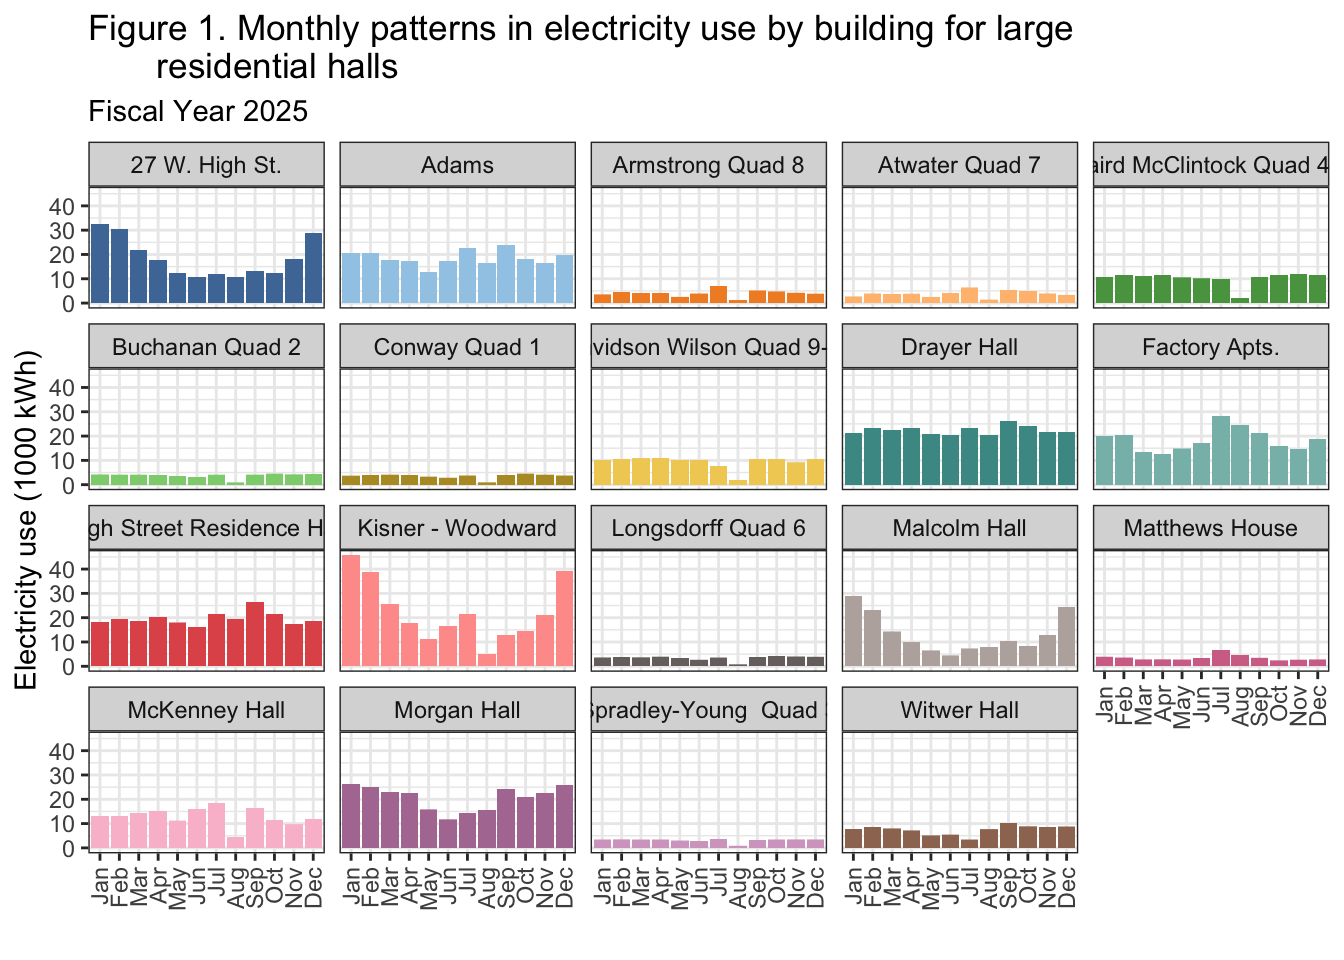
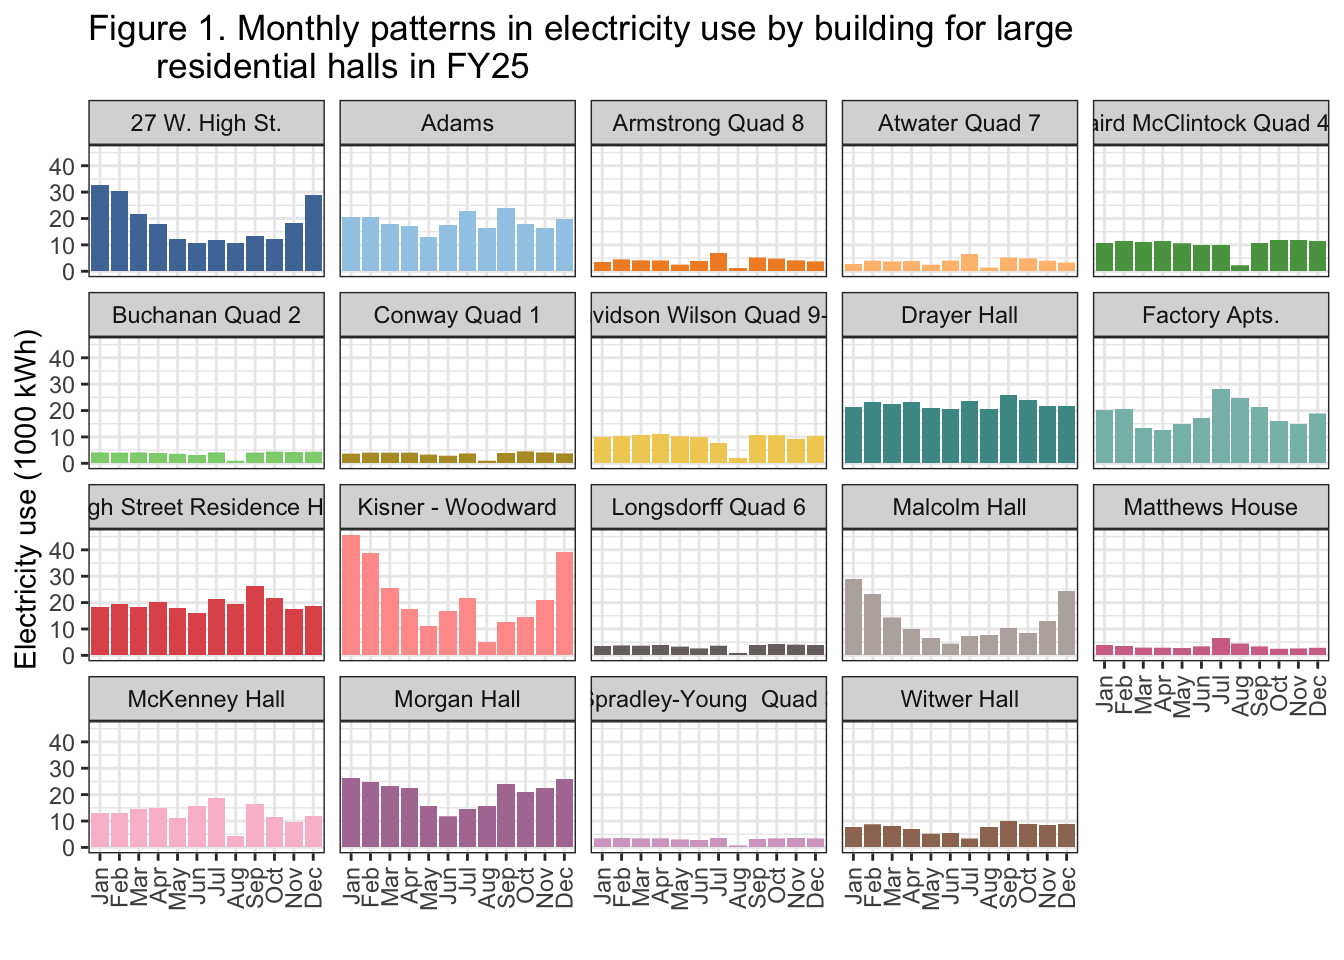
minor updates

diff --git a/docs/Report_I_Residential-L.html b/docs/Report_I_Residential-L.html
@@ -493,10 +493,10 @@ changes </a>
 <div id="strongRMarkdownfilestronguncommittedchanges"
 class="panel-collapse collapse">
 <div class="panel-body">
-<p>The R Markdown is untracked by Git. To know which version of the R
-Markdown file created these results, you’ll want to first commit it to
-the Git repo. If you’re still working on the analysis, you can ignore
-this warning. When you’re finished, you can run
+<p>The R Markdown file has unstaged changes. To know which version of
+the R Markdown file created these results, you’ll want to first commit
+it to the Git repo. If you’re still working on the analysis, you can
+ignore this warning. When you’re finished, you can run
 <code>wflow_publish</code> to commit the R Markdown file and build the
 HTML.</p>
 </div>
@@ -589,15 +589,15 @@ project makes it easier to run your code on other machines.</p>
 <div class="panel panel-default">
 <div class="panel-heading">
 <p class="panel-title">
-<a data-toggle="collapse" data-parent="#workflowr-checks" href="#strongRepositoryversionstrongahrefhttpsgithubcommaggiedouglasdickinsonpowertreed34161b8d717b41f39a7b35fa9bbbfff7334d6d6targetblankd34161ba">
+<a data-toggle="collapse" data-parent="#workflowr-checks" href="#strongRepositoryversionstrongahrefhttpsgithubcommaggiedouglasdickinsonpowertree755150174efba482b31328f804eb2165e31d5561targetblank7551501a">
 <span class="glyphicon glyphicon-ok text-success"
 aria-hidden="true"></span> <strong>Repository version:</strong>
-<a href="https://github.com/maggiedouglas/dickinson_power/tree/d34161b8d717b41f39a7b35fa9bbbfff7334d6d6" target="_blank">d34161b</a>
+<a href="https://github.com/maggiedouglas/dickinson_power/tree/755150174efba482b31328f804eb2165e31d5561" target="_blank">7551501</a>
 </a>
 </p>
 </div>
 <div
[2 lines of base64/hex data omitted]
 class="panel-collapse collapse">
 <div class="panel-body">
 <p>
@@ -607,7 +607,7 @@ reproducibility.
 </p>
 <p>
 The results in this page were generated with repository version
-<a href="https://github.com/maggiedouglas/dickinson_power/tree/d34161b8d717b41f39a7b35fa9bbbfff7334d6d6" target="_blank">d34161b</a>.
+<a href="https://github.com/maggiedouglas/dickinson_power/tree/755150174efba482b31328f804eb2165e31d5561" target="_blank">7551501</a>.
 See the <em>Past versions</em> tab to see a history of the changes made
 to the R Markdown and HTML files.
 </p>
@@ -678,11 +678,8 @@ Ignored files:
     Ignored:    output/kwh_main_annual.csv
     Ignored:    output/kwh_main_daily.csv
 
-Untracked files:
-    Untracked:  analysis/Report_I_Residential-L.Rmd
-
 Unstaged changes:
-    Modified:   analysis/Report_I_Academic.Rmd
+    Modified:   analysis/Report_I_Residential-L.Rmd
 
 </code></pre>
 <p>
@@ -728,6 +725,40 @@ Message
 </tr>
 </thead>
 <tbody>
+<tr>
+<td>
+Rmd
+</td>
+<td>
+<a href="https://github.com/maggiedouglas/dickinson_power/blob/755150174efba482b31328f804eb2165e31d5561/analysis/Report_I_Residential-L.Rmd" target="_blank">7551501</a>
+</td>
+<td>
+maggiedouglas
+</td>
+<td>
+2026-04-25
+</td>
+<td>
+Update large res hall Part 1
+</td>
+</tr>
+<tr>
+<td>
+html
+</td>
+<td>
+<a href="https://rawcdn.githack.com/maggiedouglas/dickinson_power/755150174efba482b31328f804eb2165e31d5561/docs/Report_I_Residential-L.html" target="_blank">7551501</a>
+</td>
+<td>
+maggiedouglas
+</td>
+<td>
+2026-04-25
+</td>
+<td>
+Update large res hall Part 1
+</td>
+</tr>
 <tr>
 <td>
 Rmd
@@ -977,8 +1008,7 @@ August due to missing data from this time period.</p>
   labs(x = &quot;&quot;,
        y = &quot;Electricity use (1000 kWh)&quot;,
        title = &quot;Figure 1. Monthly patterns in electricity use by building for large 
-       residential halls&quot;,
-       subtitle = &quot;Fiscal Year 2025&quot;)</code></pre>
+       residential halls in FY25&quot;)</code></pre>
 <p><img src="figure/Report_I_Residential-L.Rmd/fig1-1.png" alt="" width="672" style="display: block; margin: auto;" /></p>
 <p>
 <button type="button" class="btn btn-default btn-xs btn-workflowr btn-workflowr-fig" data-toggle="collapse" data-target="#fig-fig1-1">
@@ -1002,6 +1032,17 @@ Date
 </tr>
 </thead>
 <tbody>
+<tr>
+<td>
+<a href="https://github.com/maggiedouglas/dickinson_power/blob/755150174efba482b31328f804eb2165e31d5561/docs/figure/Report_I_Residential-L.Rmd/fig1-1.png" target="_blank">7551501</a>
+</td>
+<td>
+maggiedouglas
+</td>
+<td>
+2026-04-25
+</td>
+</tr>
 <tr>
 <td>
 <a href="https://github.com/maggiedouglas/dickinson_power/blob/00381987e0dc4547c8c7e8bb8433c091f88a81cc/docs/figure/Report_I_Residential-L.Rmd/fig1-1.png" target="_blank">0038198</a>
@@ -1084,6 +1125,17 @@ Date
 </tr>
 </thead>
 <tbody>
+<tr>
+<td>
+<a href="https://github.com/maggiedouglas/dickinson_power/blob/755150174efba482b31328f804eb2165e31d5561/docs/figure/Report_I_Residential-L.Rmd/fig2-1.png" target="_blank">7551501</a>
+</td>
+<td>
+maggiedouglas
+</td>
+<td>
+2026-04-25
+</td>
+</tr>
 <tr>
 <td>
 <a href="https://github.com/maggiedouglas/dickinson_power/blob/7140affc7c50f23879e7a03e256d5aec41f29970/docs/figure/Report_I_Residential-L.Rmd/fig2-1.png" target="_blank">7140aff</a>
